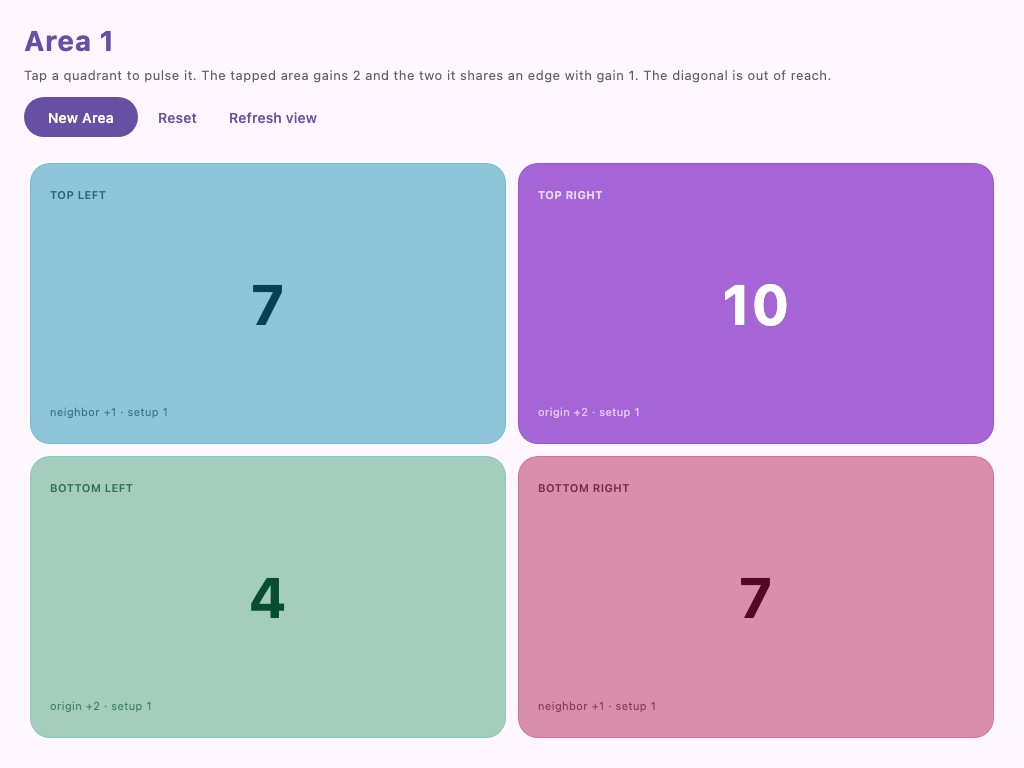
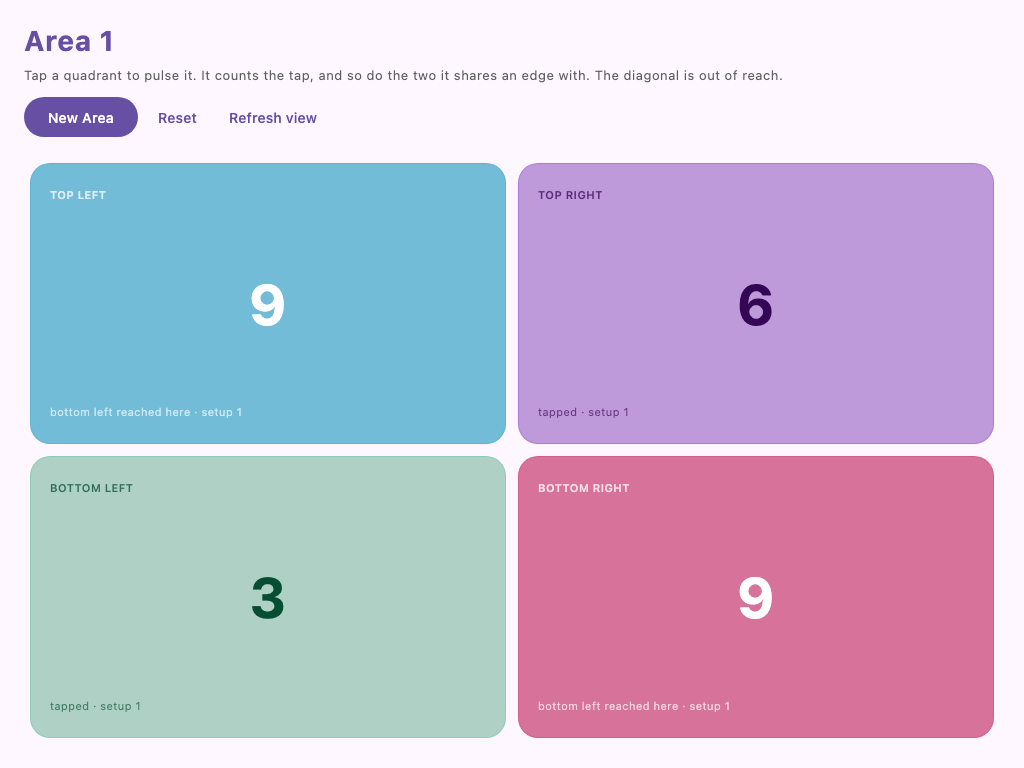
Count every pulse once, and name each branch
The two point origin and one point neighbour were a rule the demo never
needed. It existed so the caption could print "+2" next to "+1", and it
cost a PulseRole enum stored alongside the count, a gainFrom lookup, and
the same two numbers written again as literals in the UI. Every pulse is
now worth one, so all of that goes: an area only has to ask whether the
origin is itself, a neighbour, or neither, which is what comparing two
AreaPosition values already answered.

lastOrigin stays, but only as a fact the UI reads — which area the last
pulse came from — rather than a classification kept in step with the
count. The caption says where the pulse came from instead of repeating
the arithmetic.

The when branches in onAction, onReceive and onReceived now each call a
named function, so the hooks read as a list of what can happen and the
handling sits under its own name.

Claude-Session: https://claude.ai/code/session_01NDq1Kws9ev4DmeZqfY8PNw

diff --git a/demo/src/jvmTest/kotlin/jp/kaleidot725/pulse/demo/PulseGridTest.kt b/demo/src/jvmTest/kotlin/jp/kaleidot725/pulse/demo/PulseGridTest.kt
@@ -17,7 +17,7 @@ import org.junit.Rule
 import org.junit.Test
 
 /**
- * Covers the pulse itself: an area applies its own tap, announces it as a Unicast, the Container
+ * Covers the pulse itself: an area counts its own tap, announces it as a Unicast, the Container
  * broadcasts it back to all four, and each one works out from the origin what to do with it.
  */
 @OptIn(ExperimentalTestApi::class)
@@ -31,8 +31,8 @@ class PulseGridTest {
 
         composeRule.onNodeWithTag("area-TopLeft").performClick()
 
-        // Two, not four: the origin applies its own tap and then drops the broadcast copy of it.
-        assertCount("TopLeft", 2)
+        // One, not two: the origin counts its own tap and then drops the broadcast copy of it.
+        assertCount("TopLeft", 1)
         assertCount("TopRight", 1)
         assertCount("BottomLeft", 1)
         assertCount("BottomRight", 0)
@@ -44,7 +44,7 @@ class PulseGridTest {
 
         composeRule.onNodeWithTag("area-BottomRight").performClick()
 
-        assertCount("BottomRight", 2)
+        assertCount("BottomRight", 1)
         assertCount("TopRight", 1)
         assertCount("BottomLeft", 1)
         assertCount("TopLeft", 0)
@@ -55,13 +55,14 @@ class PulseGridTest {
         composeRule.setContent { DemoApp() }
 
         composeRule.onNodeWithTag("area-TopLeft").performClick()
-        assertCount("TopLeft", 2)
+        assertCount("TopLeft", 1)
         composeRule.onNodeWithTag("area-TopRight").performClick()
 
-        // TopLeft is a neighbor of TopRight, so the second pulse adds one to its own two.
-        assertCount("TopRight", 3)
-        assertCount("TopLeft", 3)
+        // TopLeft is a neighbour of TopRight, so the second pulse reaches it too.
+        assertCount("TopRight", 2)
+        assertCount("TopLeft", 2)
         assertCount("BottomRight", 1)
+        // BottomLeft is the diagonal of TopRight, so only the first pulse ever reached it.
         assertCount("BottomLeft", 1)
     }
 
@@ -70,7 +71,7 @@ class PulseGridTest {
         composeRule.setContent { DemoApp() }
 
         composeRule.onNodeWithTag("area-TopLeft").performClick()
-        assertCount("TopLeft", 2)
+        assertCount("TopLeft", 1)
 
         composeRule.onNodeWithTag("reset").performClick()
 
@@ -85,11 +86,11 @@ class PulseGridTest {
         composeRule.setContent { DemoApp() }
 
         composeRule.onNodeWithTag("area-TopLeft").performClick()
-        assertCount("TopLeft", 2)
+        assertCount("TopLeft", 1)
 
         composeRule.onNodeWithTag("refresh").performClick()
 
-        assertCount("TopLeft", 2)
+        assertCount("TopLeft", 1)
         assertCaption("TopLeft", "setup 1")
     }
 
@@ -98,7 +99,7 @@ class PulseGridTest {
         composeRule.setContent { DemoApp() }
 
         composeRule.onNodeWithTag("area-TopLeft").performClick()
-        assertCount("TopLeft", 2)
+        assertCount("TopLeft", 1)
 
         composeRule.onNodeWithTag("new-area").performClick()
         assertTitle("Area 2")
@@ -106,7 +107,7 @@ class PulseGridTest {
 
         composeRule.onNodeWithTag("back").performClick()
         assertTitle("Area 1")
-        assertCount("TopLeft", 2)
+        assertCount("TopLeft", 1)
     }
 
     @Test
@@ -121,13 +122,13 @@ class PulseGridTest {
         }
 
         composeRule.onNodeWithTag("area-TopLeft").performClick()
-        assertCount("TopLeft", 2)
+        assertCount("TopLeft", 1)
 
         // Throw the whole tree away and rebuild it, the way a host driven restart would.
         composeRule.runOnUiThread { generation.value += 1 }
         composeRule.waitForIdle()
 
-        assertCount("TopLeft", 2)
+        assertCount("TopLeft", 1)
         assertCaption("TopLeft", "setup 1")
     }
 
@@ -143,7 +144,7 @@ class PulseGridTest {
         }
 
         composeRule.onNodeWithTag("area-TopLeft").performClick()
-        assertCount("TopLeft", 2)
+        assertCount("TopLeft", 1)
 
         composeRule.runOnUiThread {
             generation.value += 1

diff --git a/demo/src/commonMain/kotlin/jp/kaleidot725/pulse/demo/grid/area/AreaViewModel.kt b/demo/src/commonMain/kotlin/jp/kaleidot725/pulse/demo/grid/area/AreaViewModel.kt
@@ -3,7 +3,6 @@ package jp.kaleidot725.pulse.demo.grid.area
 import jp.kaleidot725.pulse.demo.grid.area.state.AreaAction
 import jp.kaleidot725.pulse.demo.grid.area.state.AreaEvent
 import jp.kaleidot725.pulse.demo.grid.area.state.AreaState
-import jp.kaleidot725.pulse.demo.grid.area.state.PulseRole
 import jp.kaleidot725.pulse.demo.grid.screen.state.GridBroadcast
 import jp.kaleidot725.pulse.demo.grid.screen.state.GridUnicast
 import jp.kaleidot725.pulse.mvi.PulseViewModel
@@ -11,10 +10,10 @@ import jp.kaleidot725.pulse.mvi.PulseViewModel
 /**
  * One quadrant. Four of these share a [GridContainer], and none of them knows the others exist.
  *
- * A tap is this area's own business: [onAction] applies it locally and only then announces it as a
- * Unicast. The Container broadcasts that to everyone, this area included, so [onReceive] drops the
- * copy that came from itself — it has already been applied, and applying it twice would count the
- * tap twice. What the round trip is for is the areas that did not hear the tap first hand.
+ * A tap is this area's own business: [pulse] counts it locally and only then announces it as a
+ * Unicast. The Container broadcasts that to everyone, this area included, so [receivePulse] drops
+ * the copy that came from itself — it has already been counted, and counting it twice would count
+ * the tap twice. What the round trip is for is the areas that did not hear the tap first hand.
  */
 class AreaViewModel(
     position: AreaPosition,
@@ -27,32 +26,39 @@ class AreaViewModel(
 
     override fun onAction(uiAction: AreaAction) {
         when (uiAction) {
-            AreaAction.Pulse -> {
-                gain(PulseRole.Origin)
-                unicast(GridUnicast.Pulsed(currentState.position))
-            }
+            AreaAction.Pulse -> pulse()
         }
     }
 
     override fun onReceive(broadcast: GridBroadcast) {
         when (broadcast) {
-            is GridBroadcast.Pulse -> receive(broadcast.origin)
-            GridBroadcast.Reset -> update { copy(count = 0, lastRole = null, pulseId = pulseId + 1) }
+            is GridBroadcast.Pulse -> receivePulse(broadcast.origin)
+            GridBroadcast.Reset -> reset()
         }
     }
 
-    private fun receive(origin: AreaPosition) {
+    private fun pulse() {
         val position = currentState.position
-        // Its own pulse comes back with everyone else's copy. [onAction] already applied it.
+        count(firedAt = position)
+        unicast(GridUnicast.Pulsed(position))
+    }
+
+    private fun receivePulse(origin: AreaPosition) {
+        val position = currentState.position
+        // Its own pulse comes back with everyone else's copy. [pulse] already counted it.
         if (origin == position) return
         if (origin !in position.neighbors) return
 
-        gain(PulseRole.Neighbor)
+        count(firedAt = origin)
     }
 
-    private fun gain(role: PulseRole) {
+    private fun reset() {
+        update { copy(count = 0, lastOrigin = null, pulseId = pulseId + 1) }
+    }
+
+    private fun count(firedAt: AreaPosition) {
         val before = currentState.count
-        update { copy(count = count + role.gain, lastRole = role, pulseId = pulseId + 1) }
+        update { copy(count = count + 1, lastOrigin = firedAt, pulseId = pulseId + 1) }
 
         if (before < CHARGED_AT && currentState.count >= CHARGED_AT) {
             event(AreaEvent.Charged(currentState.position, currentState.count))

diff --git a/demo/src/commonMain/kotlin/jp/kaleidot725/pulse/demo/grid/area/AreaContent.kt b/demo/src/commonMain/kotlin/jp/kaleidot725/pulse/demo/grid/area/AreaContent.kt
@@ -27,7 +27,6 @@ import androidx.compose.ui.unit.sp
 import jp.kaleidot725.pulse.demo.grid.area.state.AreaAction
 import jp.kaleidot725.pulse.demo.grid.area.state.AreaEvent
 import jp.kaleidot725.pulse.demo.grid.area.state.AreaState
-import jp.kaleidot725.pulse.demo.grid.area.state.PulseRole
 import jp.kaleidot725.pulse.mvi.PulseContent
 
 /**
@@ -72,7 +71,7 @@ private fun AreaCell(
     val hue = state.position.hue
     val charge = (state.count.toFloat() / CHARGE_FULL).coerceIn(0f, 1f)
     val resting = Color.hsl(hue, 0.30f + 0.45f * charge, 0.90f - 0.45f * charge)
-    val flashStrength = if (state.lastRole == PulseRole.Origin) 1f else 0.55f
+    val flashStrength = if (state.lastOrigin == state.position) 1f else 0.55f
     val fill = lerp(resting, Color.hsl(hue, 1f, 0.96f), flash.value * flashStrength)
     val ink = if (charge > 0.55f) Color.White else Color.hsl(hue, 0.85f, 0.18f)
 
@@ -109,7 +108,7 @@ private fun AreaCell(
                     .testTag("count-${state.position.name}"),
         )
         Text(
-            text = "${state.lastRole.caption} · setup ${state.setupCount}",
+            text = "${state.caption} · setup ${state.setupCount}",
             fontSize = 11.sp,
             color = ink.copy(alpha = 0.65f),
             modifier = Modifier.testTag("caption-${state.position.name}"),
@@ -117,8 +116,11 @@ private fun AreaCell(
     }
 }
 
-private val PulseRole?.caption: String
-    get() = if (this == null) "out of reach" else "${name.lowercase()} +$gain"
+private val AreaState.caption: String
+    get() {
+        val origin = lastOrigin ?: return "out of reach"
+        return if (origin == position) "tapped" else "${origin.label.lowercase()} reached here"
+    }
 
 private val AreaPosition.hue: Float
     get() =

diff --git a/demo/src/commonMain/kotlin/jp/kaleidot725/pulse/demo/grid/screen/GridContainer.kt b/demo/src/commonMain/kotlin/jp/kaleidot725/pulse/demo/grid/screen/GridContainer.kt
@@ -1,5 +1,6 @@
 package jp.kaleidot725.pulse.demo.grid.screen
 
+import jp.kaleidot725.pulse.demo.grid.area.AreaPosition
 import jp.kaleidot725.pulse.demo.grid.screen.state.GridBroadcast
 import jp.kaleidot725.pulse.demo.grid.screen.state.GridUnicast
 import jp.kaleidot725.pulse.mvi.PulseContainer
@@ -8,8 +9,8 @@ import jp.kaleidot725.pulse.mvi.PulseViewModel
 /**
  * Turns one area's Unicast into a Broadcast for all four.
  *
- * A tapped area applies the tap to itself and reports it upwards; the Container sends it back down
- * to everyone. The broadcast goes to all four rather than to a computed set of neighbours: the
+ * A tapped area counts the tap itself and reports it upwards; the Container sends it back down to
+ * everyone. The broadcast goes to all four rather than to a computed set of neighbours: the
  * Container does not know the layout, so each area decides what the pulse means for it — including
  * the origin, which drops the copy of its own tap. Adding a fifth area would not change this class.
  */
@@ -18,7 +19,11 @@ class GridContainer(
 ) : PulseContainer<GridBroadcast, GridUnicast>(viewModels = viewModels) {
     override fun onReceived(unicast: GridUnicast) {
         when (unicast) {
-            is GridUnicast.Pulsed -> broadcast(GridBroadcast.Pulse(unicast.origin))
+            is GridUnicast.Pulsed -> relayPulse(unicast.origin)
         }
+    }
+
+    private fun relayPulse(origin: AreaPosition) {
+        broadcast(GridBroadcast.Pulse(origin))
     }
 }

diff --git a/demo/src/commonMain/kotlin/jp/kaleidot725/pulse/demo/grid/area/state/AreaState.kt b/demo/src/commonMain/kotlin/jp/kaleidot725/pulse/demo/grid/area/state/AreaState.kt
@@ -3,21 +3,15 @@ package jp.kaleidot725.pulse.demo.grid.area.state
 import jp.kaleidot725.pulse.demo.grid.area.AreaPosition
 import jp.kaleidot725.pulse.mvi.PulseState
 
-/**
- * How this area was touched by the last pulse, and what that is worth to it. A diagonal area is left
- * out of the pulse entirely, so it has no role of its own.
- */
-enum class PulseRole(
-    val gain: Int,
-) {
-    Origin(gain = 2),
-    Neighbor(gain = 1),
-}
-
 data class AreaState(
     val position: AreaPosition = AreaPosition.TopLeft,
     val count: Int = 0,
-    val lastRole: PulseRole? = null,
+    /**
+     * Where the last pulse this area reacted to was fired. Compared against [position] it says
+     * whether this area was the source or a neighbour, so neither needs storing. Null until the
+     * first pulse arrives, and again after a reset.
+     */
+    val lastOrigin: AreaPosition? = null,
     val setupCount: Int = 0,
     /** Bumped on every pulse this area reacts to, so the UI can restart its flash animation. */
     val pulseId: Long = 0,

diff --git a/demo/src/commonMain/kotlin/jp/kaleidot725/pulse/demo/grid/screen/state/GridBroadcast.kt b/demo/src/commonMain/kotlin/jp/kaleidot725/pulse/demo/grid/screen/state/GridBroadcast.kt
@@ -5,9 +5,10 @@ import jp.kaleidot725.pulse.mvi.PulseBroadcast
 
 sealed interface GridBroadcast : PulseBroadcast {
     /**
-     * Sent to every area, the origin included. Each one works out from [origin] what to do: the
-     * origin ignores it, having already applied the tap itself, a neighbor gains a point, and an
-     * area out of reach does nothing. The Container therefore never needs to know the grid layout.
+     * Sent to every area, the origin included. Each one compares [origin] against its own position
+     * to work out what to do: the origin ignores it, having already counted the tap itself, a
+     * neighbour counts it, and the diagonal does nothing. The Container therefore never needs to
+     * know the grid layout.
      */
     data class Pulse(
         val origin: AreaPosition,

diff --git a/demo/src/commonMain/kotlin/jp/kaleidot725/pulse/demo/grid/screen/GridScreen.kt b/demo/src/commonMain/kotlin/jp/kaleidot725/pulse/demo/grid/screen/GridScreen.kt
@@ -125,8 +125,8 @@ private fun GridHeader(
         )
         Text(
             text =
-                "Tap a quadrant to pulse it. The tapped area gains 2 and the two it shares an " +
-                    "edge with gain 1. The diagonal is out of reach.",
+                "Tap a quadrant to pulse it. It counts the tap, and so do the two it shares an " +
+                    "edge with. The diagonal is out of reach.",
             fontSize = 13.sp,
             color = MaterialTheme.colorScheme.onBackground.copy(alpha = 0.7f),
         )

diff --git a/README.md b/README.md
@@ -145,10 +145,10 @@ others.
 ./gradlew :demo:run
 ```
 
-A tapped area owns its own state: it adds two points to itself, then announces the tap as a Unicast.
-The Container broadcasts that to all four areas, and each works out what to do with it — the origin
-drops the copy of its own tap, an area sharing an edge gains a point, and the diagonal does nothing.
-One tap therefore moves three counts by two different amounts.
+A tapped area owns its own state: it counts the tap itself, then announces it as a Unicast. The
+Container broadcasts that to all four areas, and each compares the origin against its own position
+to decide — the origin drops the copy of its own tap, an area sharing an edge counts it, and the
+diagonal does nothing. One tap therefore moves three of the four counts.
 
 "New Area" pushes another grid that starts at zero, and the one underneath is still there, untouched,
 when you come back. `demo/src/jvmTest` asserts all of it.

diff --git a/AGENTS.md b/AGENTS.md
@@ -53,7 +53,7 @@ PulseMVI/
 │                                     # rememberPulseNavEntryDecorators
 ├── demo/                             # Pulse grid demo app (Navigation 3)
 │   └── src/{commonMain,jvmMain,jvmTest}/
-│       # Four areas share a Container: an area applies its own tap and announces
+│       # Four areas share a Container: an area counts its own tap and announces
 │       # it as a Unicast, the Container broadcasts it back to all four, and each
 │       # decides what to do — the origin ignores the copy of its own tap
 ├── docs/                             # VitePress documentation site

diff --git a/CLAUDE.md b/CLAUDE.md
@@ -53,7 +53,7 @@ PulseMVI/
 │                                     # rememberPulseNavEntryDecorators
 ├── demo/                             # Pulse grid demo app (Navigation 3)
 │   └── src/{commonMain,jvmMain,jvmTest}/
-│       # Four areas share a Container: an area applies its own tap and announces
+│       # Four areas share a Container: an area counts its own tap and announces
 │       # it as a Unicast, the Container broadcasts it back to all four, and each
 │       # decides what to do — the origin ignores the copy of its own tap
 ├── docs/                             # VitePress documentation site
